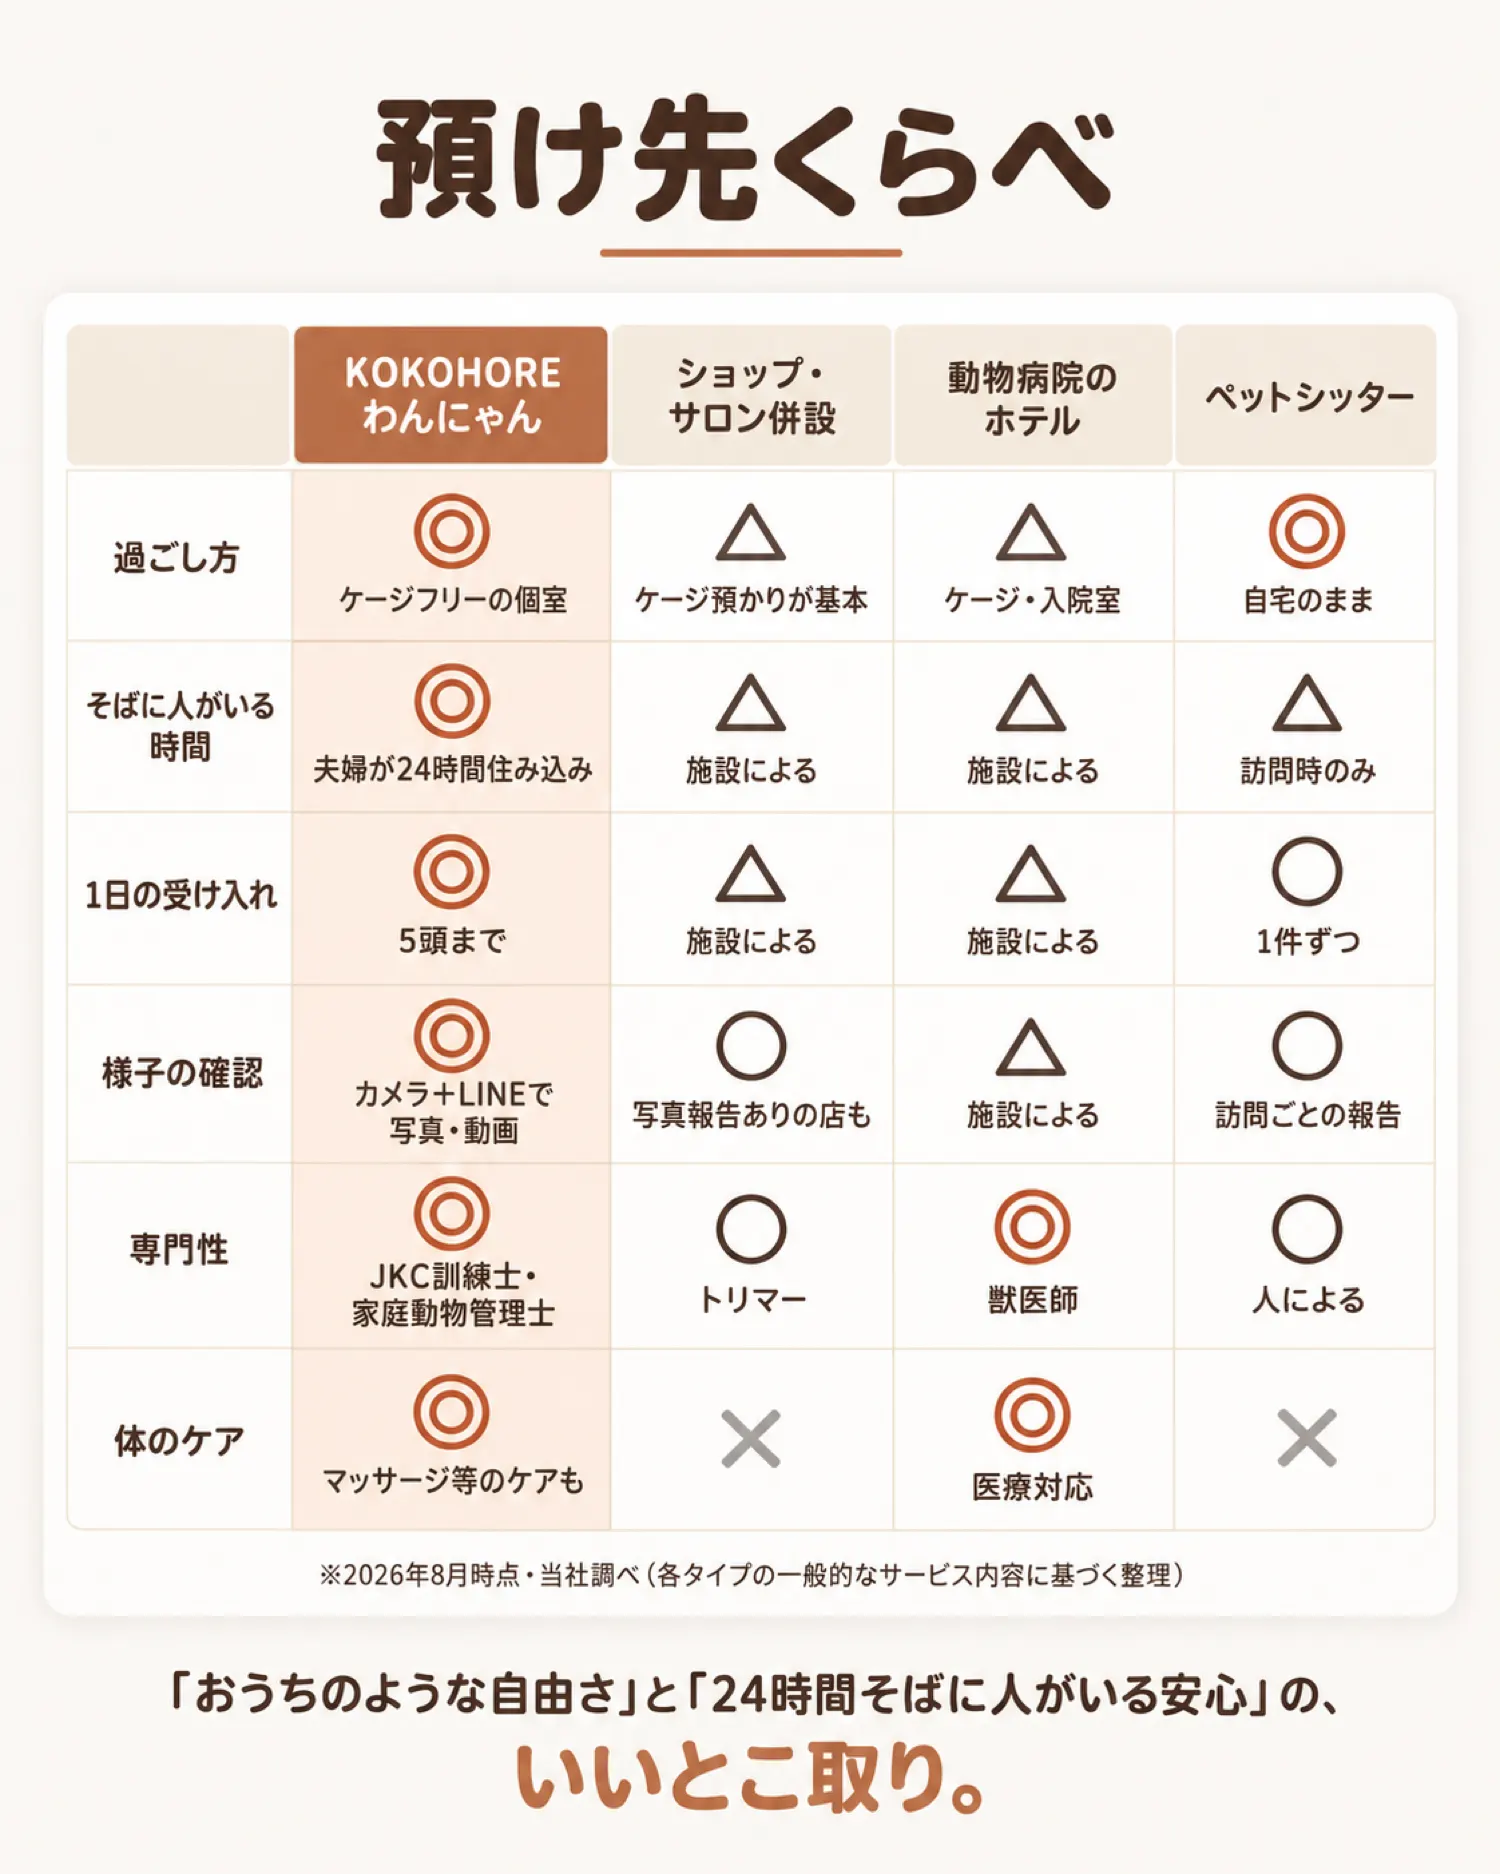
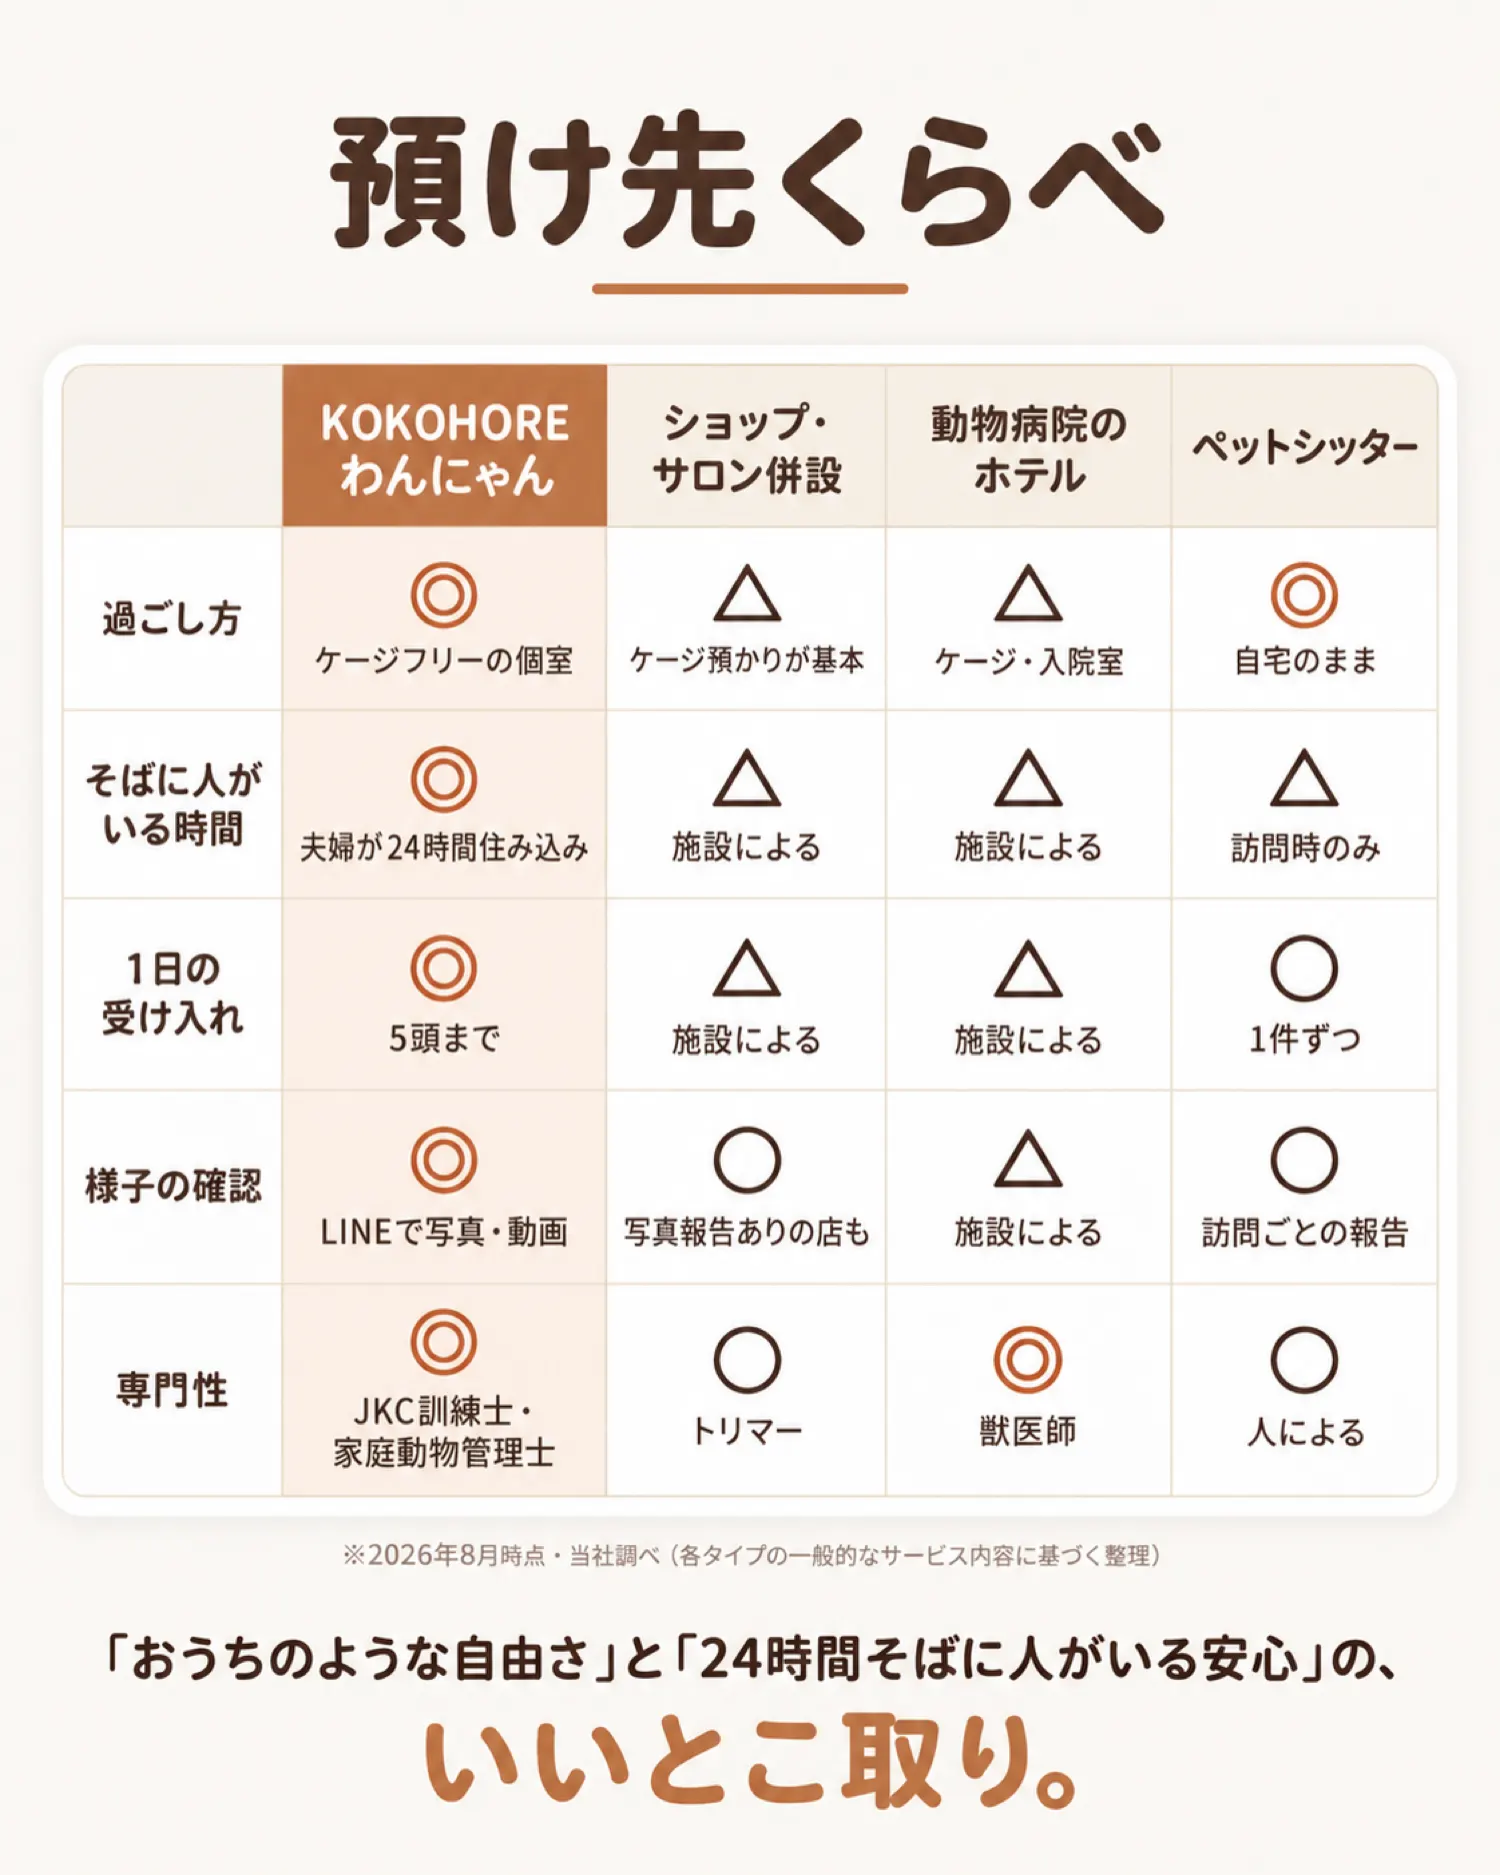
update

Changed region(s): [[0.0307, 0.0309, 0.9813, 0.9904], [0.0307, 0.7118, 0.1533, 0.7737], [0.3987, 0.4952, 0.4293, 0.5261]]

diff --git a/index.html b/index.html
@@ -35,7 +35,7 @@
   <link rel="preconnect" href="https://fonts.googleapis.com">
   <link rel="preconnect" href="https://fonts.gstatic.com" crossorigin>
   <link href="https://fonts.googleapis.com/css2?family=Zen+Maru+Gothic:wght@500;700&display=swap" rel="stylesheet">
-  <link rel="preload" as="image" href="img/01-fv.webp?v=5" fetchpriority="high">
+  <link rel="preload" as="image" href="img/01-fv.webp?v=6" fetchpriority="high">
   <link rel="stylesheet" href="css/style.css?v=5">
 </head>
 <body>
@@ -56,8 +56,8 @@
         <img class="fv-logo" src="img/logo.png" alt="KOKOHOREわんにゃん" width="120" height="120" onerror="this.hidden=true">
         <p class="rating" aria-label="Google口コミ評価"><b>★<span data-text="rating">4.6</span></b>Google口コミ<small data-text="ratingDate">2026年8月時点</small></p>
         <div class="photo-wrap">
-          <img src="img/01-fv.webp?v=5" width="1500" height="1875" fetchpriority="high"
-               alt="広島市安芸区・JR海田市駅｜わんちゃん・ねこちゃんのペットホテル。ストレスフリーで過ごせるペットホテル。まるで、おうちでくつろぐように。ケージフリーの個室／1日5頭まで／スタッフ24時間住み込み／各室カメラ＋LINEで写真・動画">
+          <img src="img/01-fv.webp?v=6" width="1500" height="1875" fetchpriority="high"
+               alt="広島市安芸区・JR海田市駅｜わんちゃん・ねこちゃんのペットホテル。ストレスフリーで過ごせるペットホテル。まるで、おうちでくつろぐように。ケージフリーの個室／1日5頭まで／スタッフ24時間住み込み／LINEで写真・動画をお届け">
           <span class="img-note">※写真はイメージです</span>
         </div>
       </section>
@@ -127,8 +127,8 @@
 
       <!-- ▼⑪ 預け先くらべ -->
       <section class="slice">
-        <img src="img/11-compare.webp?v=1" width="1500" height="1874" loading="lazy"
-             alt="預け先くらべ。KOKOHOREわんにゃん／ショップ・サロン併設／動物病院のホテル／ペットシッターを、過ごし方・そばに人がいる時間・1日の受け入れ・様子の確認・専門性・体のケアで比較。「おうちのような自由さ」と「24時間そばに人がいる安心」の、いいとこ取り">
+        <img src="img/11-compare.webp?v=2" width="1500" height="1874" loading="lazy"
+             alt="預け先くらべ。KOKOHOREわんにゃん／ショップ・サロン併設／動物病院のホテル／ペットシッターを、過ごし方・そばに人がいる時間・1日の受け入れ・様子の確認（LINEで写真・動画）・専門性で比較。「おうちのような自由さ」と「24時間そばに人がいる安心」の、いいとこ取り">
       </section>
 
       <!-- ▼⑫ 料金 -->
